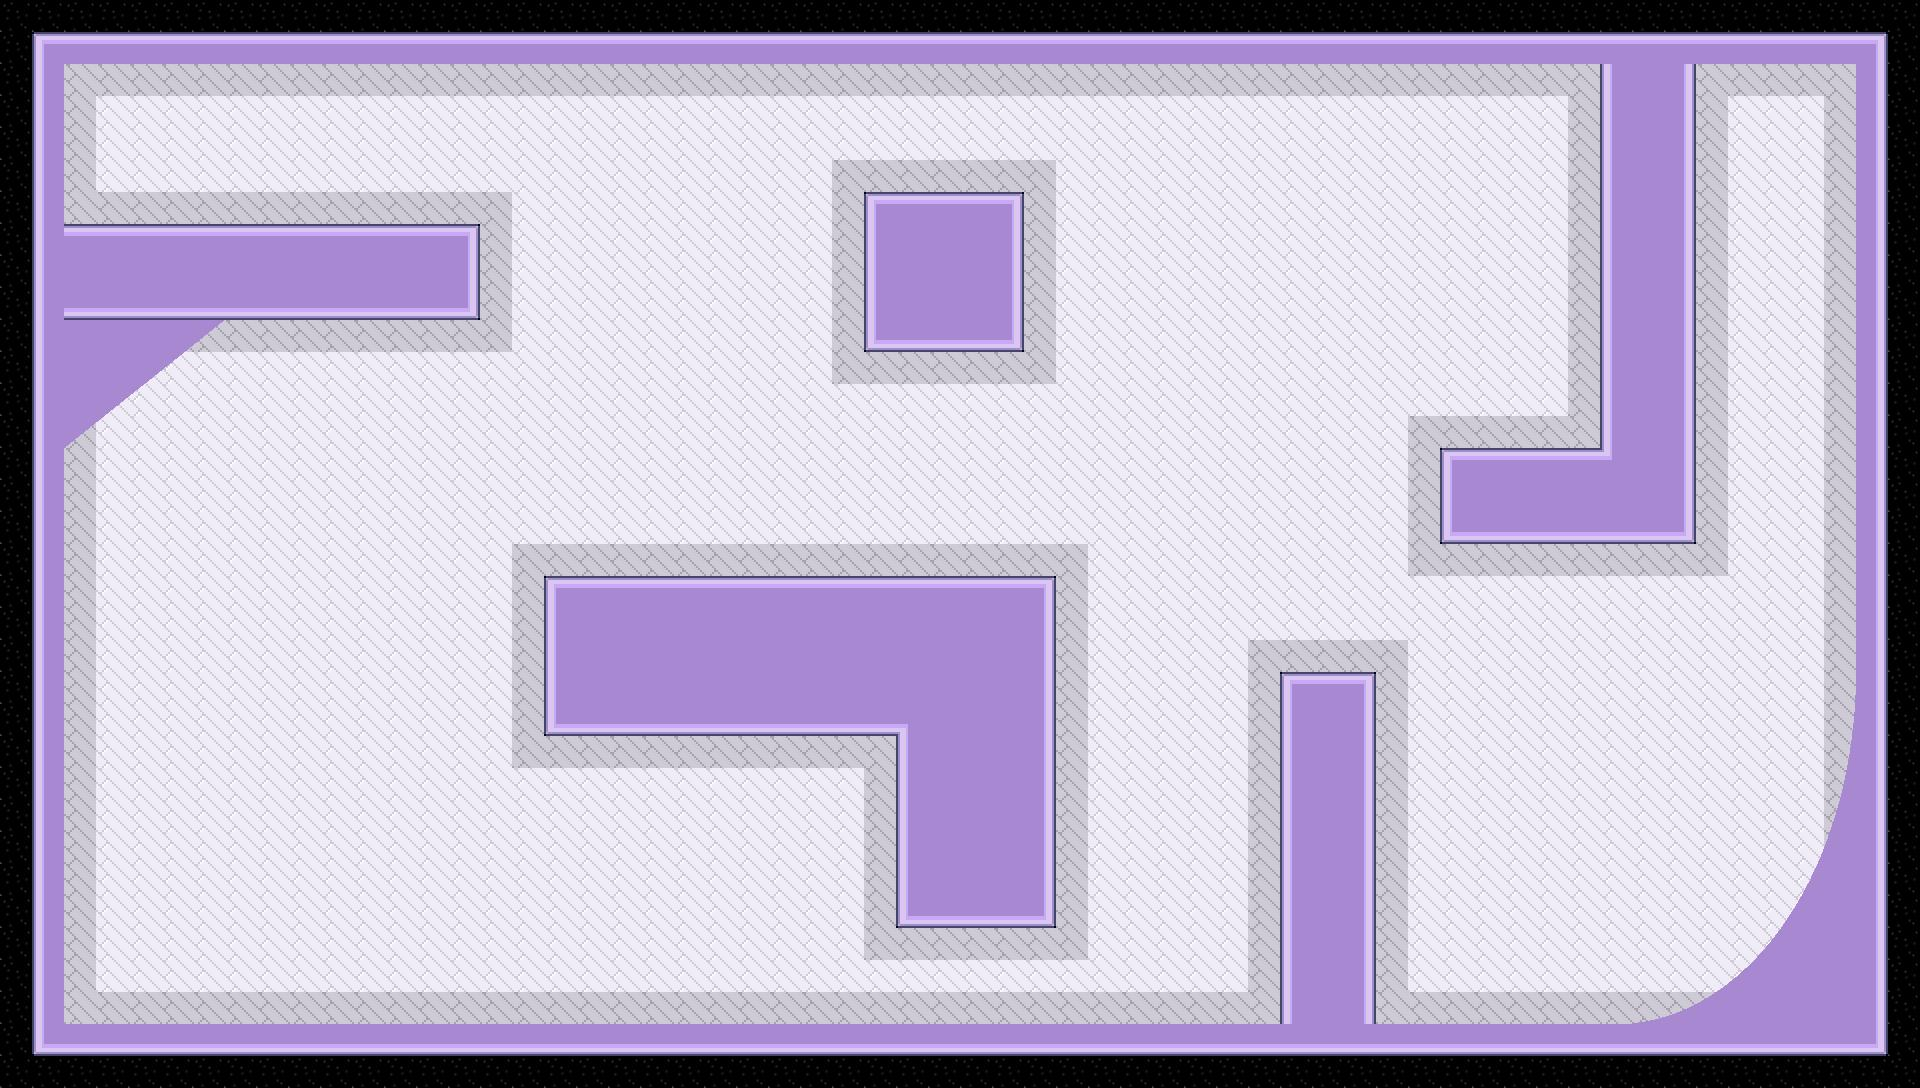
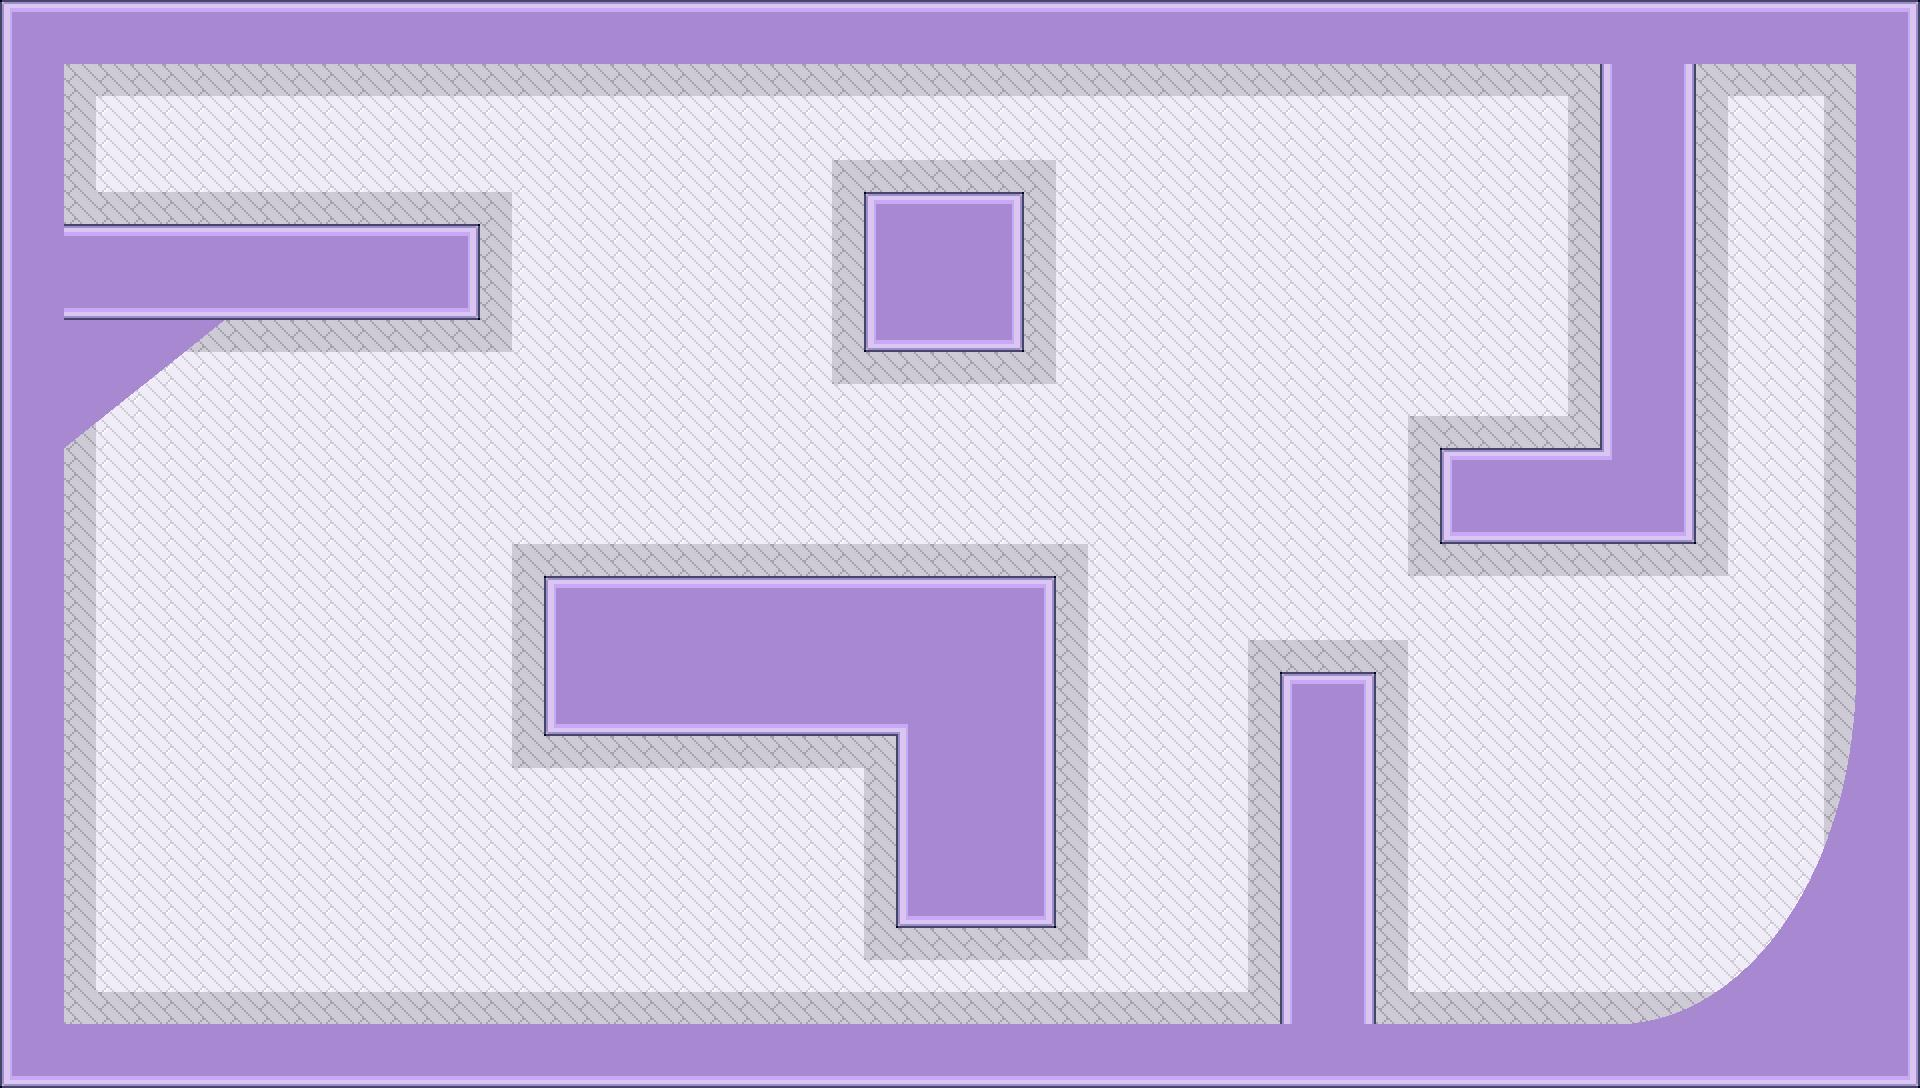
change more small things

Changed region(s): [[0.0, 0.0, 1.0, 1.0]]

diff --git a/core/src/main/java/io/github/buraconcio/Utils/MapRenderer.java b/core/src/main/java/io/github/buraconcio/Utils/MapRenderer.java
@@ -1,5 +1,7 @@
 package io.github.buraconcio.Utils;
 
+import com.badlogic.gdx.Gdx;
+import com.badlogic.gdx.graphics.Texture;
 import com.badlogic.gdx.maps.MapObject;
 import com.badlogic.gdx.maps.MapObjects;
 import com.badlogic.gdx.maps.objects.EllipseMapObject;
@@ -19,10 +21,13 @@ public class MapRenderer extends OrthogonalTiledMapRenderer
 {
     private static float scale = 1/32f;
     private static TiledMap map;
+    private Texture backgroundTexture;
+    private Rectangle spawnArea;
 
     public MapRenderer(String mapName)
     {
         super(map = new TmxMapLoader().load("maps/" + mapName + "/" + mapName + ".tmx"), scale);
+        backgroundTexture = new Texture("maps/" + mapName + "/background" + mapName + ".png");
     }
 
     public void createCollisions()
@@ -33,7 +38,11 @@ public class MapRenderer extends OrthogonalTiledMapRenderer
 
         for (MapObject object : objects)
         {
-            if ("Box".equals(object.getName()))
+            if ("SpawnArea".equals(object.getName())) {
+                spawnArea = ((RectangleMapObject) object).getRectangle();
+            }
+            
+            else if ("Box".equals(object.getName()))
             {
                 Rectangle rect = ((RectangleMapObject) object).getRectangle();
 
@@ -52,8 +61,18 @@ public class MapRenderer extends OrthogonalTiledMapRenderer
             else if ("Buraco".equals(object.getName()))
             {
                 Rectangle rect = ((RectangleMapObject) object).getRectangle();
-                Vector2 pos = new Vector2((rect.x + rect.width / 2f) / pixelsPerMeter, (rect.y + rect.height / 2f) / pixelsPerMeter);
-                new Flag(pos, rect.width / pixelsPerMeter);
+
+                float minX = rect.x / pixelsPerMeter;
+                float minY = rect.y / pixelsPerMeter;
+                float maxX = (rect.x + rect.width) / pixelsPerMeter;
+                float maxY = (rect.y + rect.height) / pixelsPerMeter;
+
+                float randomX = (float) (minX + Math.random() * (maxX - minX));
+                float randomY = (float) (minY + Math.random() * (maxY - minY));
+
+                Vector2 pos = new Vector2(randomX, randomY);
+
+                new Flag(pos, 1f);
             }
 
             else if (object.getName() != null && object.getName().startsWith("Curva"))
@@ -195,5 +214,51 @@ public class MapRenderer extends OrthogonalTiledMapRenderer
             entity.getBody().createFixture(shape2, 0f);
             shape2.dispose();
         }
+    }
+
+    public void renderBackground() {
+        getBatch().begin();
+
+        float texWidth = backgroundTexture.getWidth() * scale;
+        float texHeight = backgroundTexture.getHeight() * scale;
+
+        float camLeft = getViewBounds().x;
+        float camBottom = getViewBounds().y;
+        float camRight = camLeft + getViewBounds().width;
+        float camTop = camBottom + getViewBounds().height;
+
+        for (float x = camLeft; x < camRight; x += texWidth) {
+            for (float y = camBottom; y < camTop; y += texHeight) {
+                getBatch().draw(backgroundTexture, x, y, texWidth, texHeight);
+            }
+        }
+
+        getBatch().end();
+    }
+
+    public Vector2 getRandomSpawnPosition() {
+        if (spawnArea == null) {
+            throw new RuntimeException("SpawnArea não definida no mapa!");
+        }
+
+        float pixelsPerMeter = 32f;
+
+        float minX = spawnArea.x / pixelsPerMeter;
+        float minY = spawnArea.y / pixelsPerMeter;
+        float maxX = (spawnArea.x + spawnArea.width) / pixelsPerMeter;
+        float maxY = (spawnArea.y + spawnArea.height) / pixelsPerMeter;
+
+        float randomX = (float) (minX + Math.random() * (maxX - minX));
+        float randomY = (float) (minY + Math.random() * (maxY - minY));
+
+        return new Vector2(randomX, randomY);
+    }
+
+    @Override
+    public void dispose() {
+        if (backgroundTexture != null) {
+            backgroundTexture.dispose();
+        }
+        map.dispose();
     }
 }

diff --git a/core/src/main/java/io/github/buraconcio/Screens/PhysicsTest.java b/core/src/main/java/io/github/buraconcio/Screens/PhysicsTest.java
@@ -1,5 +1,7 @@
 package io.github.buraconcio.Screens;
 
+import java.util.Vector;
+
 import com.badlogic.gdx.Gdx;
 import com.badlogic.gdx.InputMultiplexer;
 import com.badlogic.gdx.Screen;
@@ -46,6 +48,7 @@ public class PhysicsTest implements Screen {
     private boolean paused = false;
     private FlowManager flow;
 
+
     public PhysicsTest(Main game) {
         PlayerManager.getInstance().syncLocalPlayer();
 
@@ -63,6 +66,8 @@ public class PhysicsTest implements Screen {
         mapRenderer.createCollisions();
 
         for (Player player : PlayerManager.getInstance().getAllPlayers()) {
+            Vector2 spawnPos = mapRenderer.getRandomSpawnPosition();
+            player.setStartingPos(spawnPos);
             player.createBall();
         }
 
@@ -118,8 +123,6 @@ public class PhysicsTest implements Screen {
         if (paused)
             return;
 
-        ScreenUtils.clear(0, 0, 0, 0, true);
-
         stage.act(delta);
 
         Obstacle selected = Constants.localP().getSelectedObstacle();
@@ -146,7 +149,7 @@ public class PhysicsTest implements Screen {
         }
 
         camera.updateCamera();
-
+        mapRenderer.renderBackground();
         mapRenderer.setView(camera);
         mapRenderer.render();
 
@@ -181,6 +184,10 @@ public class PhysicsTest implements Screen {
     public void dispose() {
         // stage.dispose();
         // skin.dispose();
+        mapRenderer.dispose();
+        hudStage.dispose();
+        stage.dispose();
+        debugRenderer.dispose();
     }
 
     public GameCamera getCamera() {
